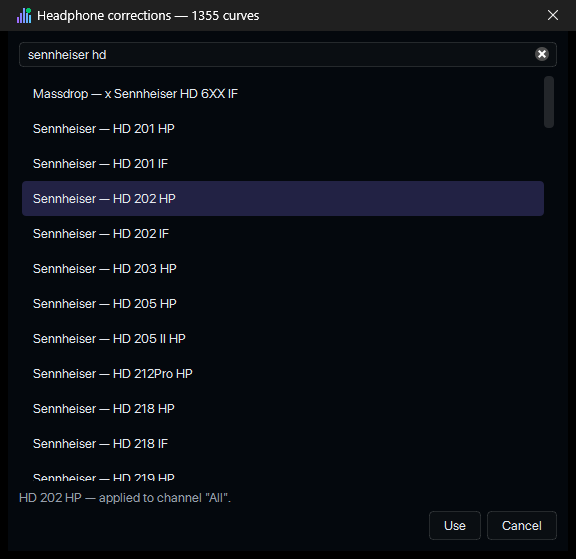
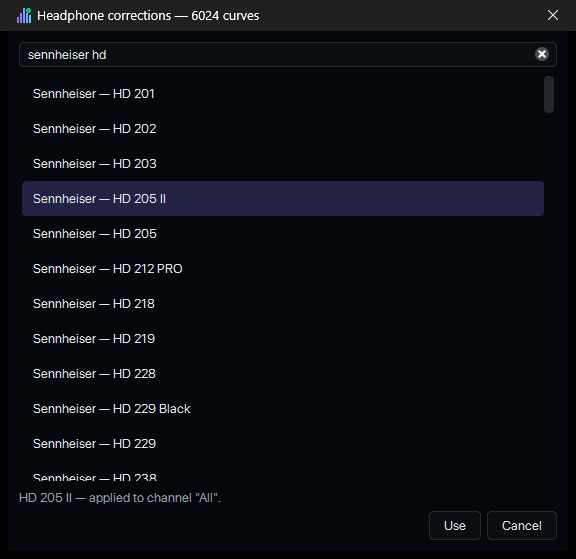
Docs and screenshots: the bundled AutoEq set, and the numbers checked for real
The correction-curve count quoted everywhere was inherited from an earlier
manual import (6,487, from a since-moved AutoEq snapshot) and never matched
what the installer actually ships. Checked it properly instead of copying a
remembered number: extracted the exact autoeq-corrections.zip baked into
dist\OmniEQ-1.0.0-portable-win64.zip and let OmniEQ itself count the result
through MINIEQ_SURROUND_DIR pointed at a scratch copy -- the same figure its
own "Headphone corrections" dialog title shows. 6,024 curves, 659 brands
(NTFS folds a handful of names that only differ by case, so the true delivered
count sits a little under the zip's own manifest of 6,033 -- the app's count
is the one a user will actually see, so it's the one written down). Every
mention across README, FEATURES, FAQ, CHANGELOG, PRIVACY, THIRD-PARTY-NOTICES
and the Patreon copy now agrees, and the framing throughout is "ships in the
box from first run," not "import this yourself" -- that manual path still
exists and is documented, but it is no longer the primary story.

SECURITY.md still said OmniEQ "talks to nothing over the network," which
stopped being true the moment the optional weekly AutoEq-curve checker
shipped. Corrected, with the same two-host, off-by-default framing PRIVACY.md
already uses.

All ten screenshots and the language montage and social card were a day
stale -- they predated today's installer hero-band fix, the dropdown-chevron
[…]

diff --git a/README.md b/README.md
@@ -30,7 +30,7 @@
 OmniEQ is a native Windows desktop equalizer for **[Equalizer APO](https://sourceforge.net/projects/equalizerapo/)**, the free system-wide audio processing engine. It replaces Peace's parametric editor *and* HeSuVi's headphone surround in a single, fast, dark-themed application — and it can migrate everything you already have in both, then remove them for you.
 
 - **No audio code of its own.** OmniEQ edits the configuration files Equalizer APO already reads. The engine does the processing; OmniEQ makes it fast, safe and pleasant to control.
-- **No cloud, no accounts, no telemetry.** It contains no network code at all — verified in the source, stated in [PRIVACY.md](PRIVACY.md).
+- **No cloud, no accounts, no telemetry.** One optional, off-by-default checkbox fetches new AutoEq curves from two named GitHub addresses; with it off OmniEQ opens no socket at all. Everything ships in the installer. [PRIVACY.md](PRIVACY.md)
 - **Built for daily use.** 1.2 MB executable, ~450 ms to a visible window, 0.03 % of one core when hidden in the tray.
 
 > **OmniEQ is donationware.** It is not sold in stores and there is no free download. Supporters on Patreon and Ko-fi get the installer and the portable build — see [Getting it](#getting-it).
@@ -60,15 +60,15 @@ OmniEQ is a native Windows desktop equalizer for **[Equalizer APO](https://sourc
 <td width="50%" valign="top">
 
 ### 🎧 OmniSurround
-- Headphone surround virtualisation with **312 ear/room profiles** (57 captured virtualisations + 255 research HRTF sets) and **1 355 headphone-correction curves** — taken over from your existing HeSuVi installation, then HeSuVi can go
+- Headphone surround virtualisation with **312 ear/room profiles** (57 captured virtualisations + 255 research HRTF sets) and **6 024 headphone-correction curves** bundled in from the start — or taken over from your existing HeSuVi installation instead, then HeSuVi can go
 - Everything HeSuVi's own window could set, in five tabs: two profile lists with descriptions, source format, stereo/5.1 upmix, **speaker positions with a draggable 3D-style layout**, a per-position 7.1 test, eight channel levels, master, LFE-to-centre, four speaker-group EQs with the correction library one click away, output routing, crossfeed (six parameters)
 - Changes apply **immediately** — no restart, no re-registration
 
 ### 🗂 Presets & migration
 - Presets with search, rename, hotkeys per preset, and a tray picker
 - **Import from Peace** — every `.peace` profile, then Peace's own uninstaller, then a config.txt repair
-- AutoEQ file import; AutoEQ database browser (uses the database Peace ships)
-- Headphone-correction browser — a measured curve is applied **as itself**, nothing resampled
+- AutoEQ file import; AutoEQ database browser (Peace's database, or **8 850 equalisations imported from AutoEq's own results folder** — no Peace needed)
+- Headphone-correction browser — a measured curve is applied **as itself**, nothing resampled — and a one-menu update straight from AutoEq that takes the library from **1 355 to 6 024 curves**
 - **Back up everything to one file**, restore it anywhere
 
 ### ⚙ Desktop
@@ -95,7 +95,7 @@ Full list with details: **[docs/FEATURES.md](docs/FEATURES.md)**
 </tr>
 <tr>
 <td align="center"><img src="assets/screenshots/03-omnisurround.png" alt="OmniSurround panel" height="420"><br><sub><b>OmniSurround</b> — profiles, positions, upmix and a draggable speaker layout</sub></td>
-<td align="center"><img src="assets/screenshots/04-headphone-corrections.png" alt="Headphone corrections browser" height="420"><br><sub><b>Headphone corrections</b> — 1 355 measured curves, searchable</sub></td>
+<td align="center"><img src="assets/screenshots/04-headphone-corrections.png" alt="Headphone corrections browser" height="420"><br><sub><b>Headphone corrections</b> — 6 024 measured curves, searchable</sub></td>
 </tr>
 <tr>
 <td align="center"><img src="assets/screenshots/05-settings.png" alt="Settings" height="360"><br><sub><b>Settings</b> — behaviour, tuning, hotkeys</sub></td>
@@ -130,7 +130,7 @@ Neither the installer nor the source code is published on GitHub. This repositor
 | **Equalizer APO** | 1.2.1 or newer, installed and registered on the output device you want to equalise. Free and open source: [equalizerapo.com](https://equalizerapo.com/) |
 | **Runtime** | None to install: the Microsoft Visual C++ runtime ships next to the program |
 | **Disk** | about 45 MB |
-| **Optional** | An existing **HeSuVi** installation, if you want OmniSurround's profile library · An existing **Peace** installation, if you want its presets and the AutoEQ database |
+| **Optional** | An existing **HeSuVi** installation, if you want OmniSurround's profile library · An existing **Peace** installation, if you want its presets · Neither is needed for the AutoEQ database or the correction curves: both can be imported from the AutoEq project itself |
 
 OmniEQ does not install, configure or repair Equalizer APO itself; it edits the files Equalizer APO reads.
 

diff --git a/docs/FEATURES.md b/docs/FEATURES.md
@@ -52,7 +52,7 @@ Headphone surround virtualisation: multi-channel (or stereo, upmixed) audio is f
 | **Crossfeed** | On/off, crossover frequency, attenuation, delay (in samples), shelf, bass shelf, alternative method — the six values HeSuVi keeps in one line. |
 | **Channel matrix** | A hand-edited routing matrix from HeSuVi is carried over as text and honoured; the window says so and offers to discard it in favour of the sliders. |
 | **Move into OmniEQ…** | Copies the library and your settings, switches `config.txt` over *in place*, and only then — on a second, separate confirmation — offers to delete HeSuVi's folder. It refuses to delete unless the new processing is in place and the selected profile is present in OmniEQ's own copy. |
-| **Headphone corrections** | 1 355 measured correction curves from ~190 brands (also from HeSuVi's library). Search, pick, apply — as a graphic-EQ curve, **as itself**, nothing fitted or resampled. |
+| **Headphone corrections** | 6 024 measured correction curves from 659 brands, bundled in the installer from first run — or 1 355 from ~190 brands if you take over just your existing HeSuVi library instead (see below). Search, pick, apply — as a graphic-EQ curve, **as itself**, nothing fitted or resampled. |
 
 ---
 
@@ -63,7 +63,9 @@ Headphone surround virtualisation: multi-channel (or stereo, upmixed) audio is f
 | **Preset store** | Save, rename, delete, search. Presets are plain Equalizer APO text — readable, diffable, portable. |
 | **From Peace…** | Imports every `.peace` profile from an installed Peace, then offers Peace's own uninstaller (see [Migrating](MIGRATING.md)). |
 | **AutoEQ file** | Import a curve exported by AutoEQ. |
-| **AutoEQ database** | Browse thousands of AutoEQ equalisations by headphone. *Uses the compressed database Peace ships (`AutoEQCompressed5.7z`); if you never had Peace, use the AutoEQ file import instead.* |
+| **AutoEQ database** | Browse thousands of AutoEQ equalisations by headphone. *Reads the compressed database Peace ships (`AutoEQCompressed5.7z`) — or, better, the one you import yourself (next row), which needs no Peace at all.* |
+| **Import AutoEQ database folder…** | Point OmniEQ at AutoEq's own `results` folder and it takes over every `… ParametricEQ.txt` below it — **8 850 equalisations from 23 measurement rigs** on the machine this was built on, against Peace's older copy. Peace is then not needed for the database either. |
+| **Update corrections from AutoEq…** | Enlarges the headphone-correction library from AutoEq's `results/hesuvi.zip` (or an unpacked folder): **1 355 → 6 024 curves, 659 brands** — the same set the installer already offers to bundle on first run; this menu action is for refreshing it by hand later. Shows what would change before writing — new, updated, superseded, untouched — and offers *Merge* or *Replace*; the old library is moved to a `.bak` folder beside it either way. |
 | **Export / import config** | Move a configuration between machines as a file. |
 | **Per-preset hotkeys** | Assign a global shortcut to any preset. |
 | **Tray picker** | Switch presets from the tray icon without opening the window. |
@@ -96,7 +98,7 @@ Headphone surround virtualisation: multi-channel (or stereo, upmixed) audio is f
 - **Backup on first run.** Your `config.txt` is copied to `configbeforeOmniEQ.txt` before OmniEQ ever touches it.
 - **Unknown lines survive.** Commands OmniEQ does not model are carried through byte for byte.
 - **Debounced writes.** A slider drag becomes one write, not fifty.
-- **No threads, no network.** All COM is single-threaded on the GUI thread; there is no code that could send anything anywhere.
+- **No threads; network only on request.** All COM is single-threaded on the GUI thread. Exactly one file (`nethttp.cpp`, ~100 lines) can open a connection, only for the optional AutoEq update, only to two allow-listed hosts, and only while you have the box ticked.
 - **Measured.** ~450 ms to a visible window, 0.03 % of one core hidden, no growth in memory, handles or GDI over a 14-minute soak.
 
 ---
@@ -104,5 +106,5 @@ Headphone surround virtualisation: multi-channel (or stereo, upmixed) audio is f
 ## What OmniEQ deliberately does not do
 
 - It does **not** install, register, repair or replace Equalizer APO. That is the engine's job and its own installer does it well.
-- It does **not** ship HeSuVi's profile library or Peace's AutoEQ database. Both are taken over from installations you already have.
-- It does **not** phone home, check for updates online, or collect anything.
+- It does **not** ship HeSuVi's profile library, the AutoEQ database or the correction curves. They are taken over from installations you already have, or imported from AutoEq's own published files — OmniEQ reads what you give it and never downloads anything itself.
+- It does **not** phone home, check whether a newer OmniEQ exists, or collect anything. The one optional connection fetches AutoEq curve files and nothing else.

diff --git a/THIRD-PARTY-NOTICES.md b/THIRD-PARTY-NOTICES.md
@@ -73,9 +73,9 @@ OmniEQ uses the system UI font (Segoe UI on Windows). No fonts are bundled.
 
 **Attribution.** OmniSurround's processing chain — the upmix, the fourteen-channel split, the convolution and the mix-down — reproduces the signal flow HeSuVi established for Equalizer APO, and its default mixing coefficients were taken from the configuration HeSuVi generates. The Author gratefully acknowledges HeSuVi's design; the arrangement is HeSuVi's, the implementation is OmniEQ's.
 
-### AutoEQ — MIT
+### AutoEQ — MIT (redistributed with OmniEQ)
 
-[AutoEQ](https://github.com/jaakkopasanen/AutoEq) by Jaakko Pasanen provides headphone equalisation results under the MIT licence. OmniEQ can import AutoEQ files you export yourself, and can browse the compressed AutoEQ database that Peace ships (`AutoEQCompressed5.7z`) if it is present in your Equalizer APO folder. OmniEQ does not include the database.
+[AutoEQ](https://github.com/jaakkopasanen/AutoEq) by Jaakko Pasanen provides headphone equalisation results under the MIT licence (Copyright 2018–2022 Jaakko Pasanen). OmniEQ can import AutoEQ files you export yourself; it can browse the compressed AutoEQ database that Peace ships (`AutoEQCompressed5.7z`) if it is present in your Equalizer APO folder; and it can import, from files **you** download from the AutoEq project, both the parametric database (`results/**/… ParametricEQ.txt`) and the headphone-correction curves (`results/hesuvi.zip`). **OmniEQ redistributes two of AutoEq's published sets inside its installer**: the correction bundle (`results/hesuvi.zip`, 6 024 curves) and the parametric results (`… ParametricEQ.txt`, 8 850 equalisations from 23 measurement rigs). They sit in the `data` folder next to the program, together with AutoEq's MIT licence text, and are installed into your own profile only when you say so. The equalisations are derived works computed from measurements made by others — oratory1990, crinacle, Innerfidelity, Rtings, Kuulokenurkka and further measurers named in each file's own path; those measurements remain theirs. If you are one of them and would rather not be included, write to the address in `PRIVACY.md` and the next build will leave your set out. The imported files keep AutoEq's MIT terms, and the licence text is reproduced above with the other MIT components.
 
 ---
 
@@ -87,7 +87,8 @@ When you use the migration features, OmniEQ copies files **from installations yo
 |---|---|---|
 | Presets (`*.peace`, `peace.txt`, `peace.ini`) | your Peace installation | `%APPDATA%\OmniEQ\OmniEQ\` |
 | Impulse responses (`hrir\*.wav`, `hrir\44\`, `hrir\more\`) and `info.csv` | your HeSuVi installation | `%LOCALAPPDATA%\OmniEQ\OmniEQ\surround\hrir\` |
-| Headphone-correction curves (`eq\<brand>\*.txt`) | your HeSuVi installation | `%LOCALAPPDATA%\OmniEQ\OmniEQ\surround\correction\` |
+| Headphone-correction curves (`eq\<brand>\*.txt`) | your HeSuVi installation, or an AutoEq `hesuvi.zip` / folder you downloaded | `%LOCALAPPDATA%\OmniEQ\OmniEQ\surround\correction\` |
+| Parametric AutoEQ results (`… ParametricEQ.txt`) | an AutoEq `results` folder you downloaded | `%LOCALAPPDATA%\OmniEQ\OmniEQ\autoeq\` |
 
 The extended impulse-response set (`hrir\more`) originates from several published HRTF databases whose authors ask to be cited; HeSuVi ships that information in `info.csv`, and OmniEQ **copies that file along with the profiles** so the attribution stays with the data.
 

diff --git a/docs/FAQ.md b/docs/FAQ.md
@@ -7,7 +7,22 @@ OmniEQ is **donationware**: it is given to people who support the project on Pat
 Yes. Every command OmniEQ writes is stock Equalizer APO (1.2.1 or newer): `Filter`, `Preamp`, `GraphicEQ`, `Copy`, `Convolution`, `Delay`, `LoudnessCorrection`, `Eval`/`If`, `VSTPlugin`. The single exception is **VST3** hosting, which stock Equalizer APO does not have; that button writes `VST3Plugin:` and only does something on an engine build that understands it.
 
 ### Do I need Peace or HeSuVi installed?
-No. OmniEQ works on its own. If you *have* them, OmniEQ can take over their libraries — Peace's presets and AutoEQ database, HeSuVi's surround profiles and headphone corrections — and then remove them. If you never had them, you simply don't get those two libraries; everything else works.
+No. OmniEQ works on its own. If you *have* them, OmniEQ can take over their libraries — Peace's presets and AutoEQ database, HeSuVi's surround profiles and headphone corrections — and then remove them. If you never had them, everything else works, and two of those libraries you can get without them anyway: **Curve › Import AutoEQ database folder…** and **Curve › Update corrections from AutoEq…** read the files the [AutoEq project](https://github.com/jaakkopasanen/AutoEq) publishes, which are newer and much larger than Peace's and HeSuVi's copies. Only HeSuVi's surround profiles still have to come from HeSuVi.
+
+### How do I get the bigger AutoEQ databases?
+You already have them: both ship inside the installer (6 024 correction curves, 8 850 equalisations) and the first start offers to set them up. You only need the steps below if you want to refresh them by hand instead of ticking **Keep AutoEq curves up to date**.
+
+- **Corrections:** `results/hesuvi.zip` from the AutoEq repository, about 8 MB. Feed the zip straight to **Curve › Update corrections from AutoEq…**; it shows what would change before writing anything and keeps your old library in a `.bak` folder.
+- **Parametric database:** AutoEq's `results` folder. The whole clone is large, so fetch only what is needed (about 30 MB):
+
+  ```
+  git clone --filter=blob:none --no-checkout --depth 1 https://github.com/jaakkopasanen/AutoEq
+  cd AutoEq
+  git sparse-checkout set --no-cone "/results/**/*ParametricEQ.txt"
+  git checkout
+  ```
+
+  Then point **Curve › Import AutoEQ database folder…** at that folder.
 
 ### Can I keep Peace and OmniEQ side by side?
 Yes. Import your Peace presets and decline the removal offer. Both write their own files; only one is included in `config.txt` at a time — OmniEQ's *Activate* button switches. Peace's *On/Off* would do the same the other way.
@@ -47,7 +62,7 @@ Number formatting follows your Windows *region* setting, not the UI language —
 
 ## Does OmniEQ send anything anywhere?
 
-No. It contains no network code. There is no update check, no crash reporter, no analytics. See [PRIVACY.md](../PRIVACY.md).
+No, not unless you ask it to. OmniEQ ships both AutoEq databases inside the installer and opens no socket at all until you tick **Keep AutoEq curves up to date**; with it on it contacts `api.github.com` and `raw.githubusercontent.com`, at most once a week, to fetch published curve files. There is still no update check for OmniEQ itself, no crash reporter and no analytics. See [PRIVACY.md](../PRIVACY.md).
 
 ## My antivirus flags the installer / "could not be started from %TEMP%"
 

diff --git a/marketing/PATREON.md b/marketing/PATREON.md
@@ -14,7 +14,7 @@ Everything here is copy-and-paste ready once `tools\Fill-Links.ps1` has run. Ima
 
 **OmniEQ** is what I wanted Peace to be: native, quick, dark, and one window for everything Equalizer APO can do — parametric and graphic EQ per channel and per device, presets with hotkeys, undo, A/B, a live graph, loudness compensation, crossfeed, and **OmniSurround**, headphone surround virtualisation with the full HeSuVi profile library taken over and HeSuVi itself no longer needed.
 
-It contains no network code at all — no update checks, no telemetry, nothing leaves your machine. It is 1.2 MB of program, opens in under half a second, and idles at 0.03 % of one core in the tray. Five languages, checked on screen: English, Deutsch, Español, Français, Română.
+It makes no network connection at all unless you tick one clearly named box — no update checks for itself, no telemetry, nothing leaves your machine. It is 1.2 MB of program, opens in under half a second, and idles at 0.03 % of one core in the tray. Five languages, checked on screen: English, Deutsch, Español, Français, Română.
 
 **OmniEQ is donationware.** There is no store, no trial and no free download. If you support the project here, you get:
 
@@ -72,7 +72,7 @@ If you want a second tier, make it about *recognition*, not features — for exa
 >
 > *(insert `assets\screenshots\01-main-expert.png`)*
 >
-> **What it does:** parametric + graphic EQ per channel and device · presets with hotkeys · undo, A/B, four quick sets · live graph · loudness compensation, crossfeed · **OmniSurround** headphone virtualisation with 312 profiles and 1 355 headphone corrections · Peace and HeSuVi migration in three clicks each · tray, global hotkeys, five languages · no telemetry, no network code at all.
+> **What it does:** parametric + graphic EQ per channel and device · presets with hotkeys · undo, A/B, four quick sets · live graph · loudness compensation, crossfeed · **OmniSurround** headphone virtualisation with 312 profiles and 1 355 headphone corrections · Peace and HeSuVi migration in three clicks each · tray, global hotkeys, five languages · AutoEq databases included (6 024 curves, 8 850 equalisations) · no telemetry, no connection unless you ask for one.
 >
 > **What it costs:** it's donationware. Supporters get the installer and every update. Details, screenshots and docs: https://github.com/%%GITHUB_USER%%/OmniEQ
 >

diff --git a/PRIVACY.md b/PRIVACY.md
@@ -1,8 +1,19 @@
 # Privacy
 
-**OmniEQ does not collect, store, transmit or share any personal data. It cannot: it contains no networking code.**
+**OmniEQ does not collect, store, transmit or share any personal data — and it makes no network connection at all unless you switch on one clearly labelled option that is off until you switch it on.**
 
-That sentence is checkable, and it was checked before this file was written: the source of OmniEQ 1.0.0 contains no HTTP client, no socket, no update checker, no crash reporter and no analytics of any kind. The only "open a URL" calls in the program open your local manual (a PDF next to the executable) and the Windows Sound settings page.
+That option is **Keep AutoEq curves up to date**. With it off — which is how OmniEQ arrives, and how it stays unless you decide otherwise — the program opens no socket of any kind. Everything works without it: both AutoEq databases ship inside the installer, so a machine that never touches a network has all 6 024 correction curves and all 8 850 equalisations.
+
+With it on, OmniEQ contacts exactly two addresses, at most once a week, while it is running:
+
+| Address | What it asks | What it sends |
+|---|---|---|
+| `api.github.com` | whether AutoEq's public `results` folder has changed since the copy you have | an ordinary HTTPS GET with `User-Agent: OmniEQ/<version>` |
+| `raw.githubusercontent.com` | the curve files that changed | the same |
+
+That is the whole list. No identifier, no machine name, no account, no cookie, no telemetry, no crash reporting, and **no update check for OmniEQ itself** — the program never asks whether a newer OmniEQ exists. Any other host is refused before a byte is sent, and a redirect that leaves those two hosts aborts the request (`src/nethttp.cpp` is the only file in the program that touches a network at all — it is about a hundred lines, and it exists to be read).
+
+If a check fails, nothing is retried and nothing is reported anywhere; Settings shows you the date and the reason in plain words.
 
 ## What OmniEQ writes, and where
 

diff --git a/CHANGELOG.md b/CHANGELOG.md
@@ -24,7 +24,10 @@ First public release.
 ### Presets & migration
 - Preset store with search, rename, per-preset hotkeys, tray picker
 - Import from Peace with Peace's own uninstaller and config.txt repair
-- AutoEQ file import; AutoEQ database browser (Peace's database)
+- AutoEQ file import; AutoEQ database browser (Peace's database, or one imported from AutoEq's own `results` folder — 8 850 equalisations from 23 measurement rigs, no Peace required)
+- **Both AutoEq databases ship in the installer** — 6 024 correction curves and 8 850 equalisations from 23 measurement rigs — offered once on first start, merged into whatever you already have, with the previous library kept in a `.bak` folder
+- Optional, off by default: **Keep AutoEq curves up to date** — once a week, while OmniEQ runs, it asks `api.github.com` whether AutoEq's public results folder changed and fetches new curves from `raw.githubusercontent.com`; nothing else is sent, failures are silent and shown as a date and a reason in Settings
+- Correction-library update by hand from AutoEq's `hesuvi.zip` or an unpacked folder, with a merge/replace preview
 - Export/import config; back up everything to one file
 
 ### Desktop

diff --git a/LICENSE.md b/LICENSE.md
@@ -46,7 +46,7 @@ The Software is licensed, not sold. The Author retains all right, title and inte
 
 The Software reads and writes files in Equalizer APO's configuration folder (by default `C:\Program Files\EqualizerAPO\config`), including `config.txt`, and stores its own presets and settings in your user profile and in the Windows registry under `HKCU\Software\OmniEQ`. On first run it copies your existing `config.txt` to `configbeforeOmniEQ.txt`. The optional migration features may — only after asking you and only after copying — start Peace's own uninstaller or delete HeSuVi's folder. **Keeping backups of your audio configuration is your responsibility.**
 
-The Software contains no networking code, collects no data and sends nothing to the Author or anyone else. See `PRIVACY.md`.
+The Software collects no data and sends nothing to the Author or anyone else. It makes no network connection at all unless you switch on "Keep AutoEq curves up to date", which is off by default; with it on it contacts only `api.github.com` and `raw.githubusercontent.com` to fetch published headphone-correction files. See `PRIVACY.md`.
 
 ## 7. Updates and support
 

diff --git a/SECURITY.md b/SECURITY.md
@@ -1,6 +1,6 @@
 # Security
 
-OmniEQ runs with your user's rights, edits text files in Equalizer APO's configuration folder, and talks to nothing over the network. Its attack surface is small, but not zero: it parses configuration files, preset files and imported curves, and it can start Peace's uninstaller.
+OmniEQ runs with your user's rights and edits text files in Equalizer APO's configuration folder. It talks to the network only if you switch on **Keep AutoEq curves up to date** (off by default), and then only to `api.github.com` and `raw.githubusercontent.com` over HTTPS — see [PRIVACY.md](PRIVACY.md). Its attack surface is small, but not zero: it parses configuration files, preset files and imported curves, and it can start Peace's uninstaller.
 
 ## Reporting
 
